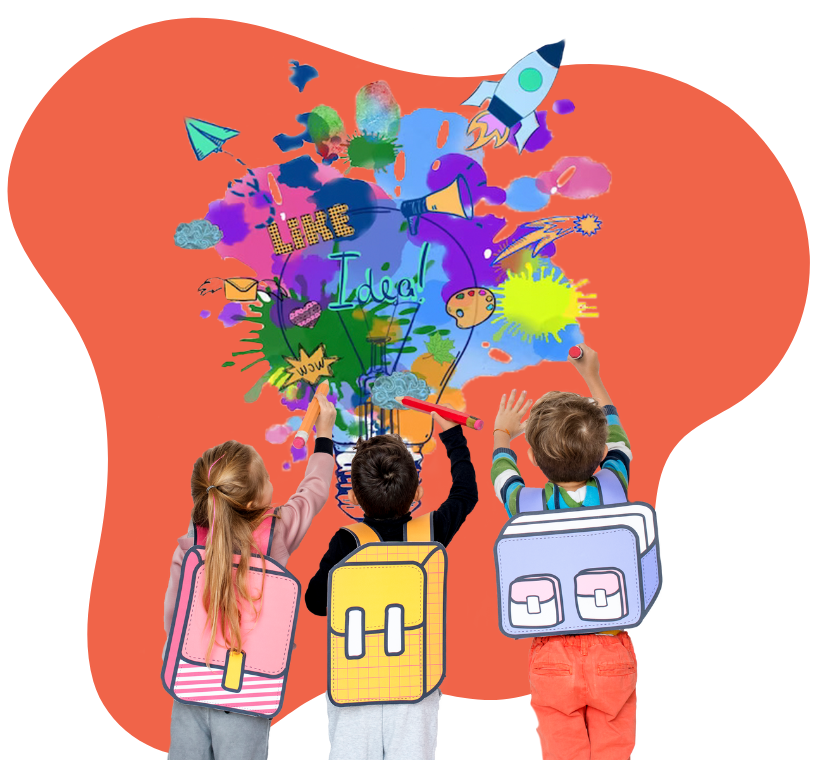
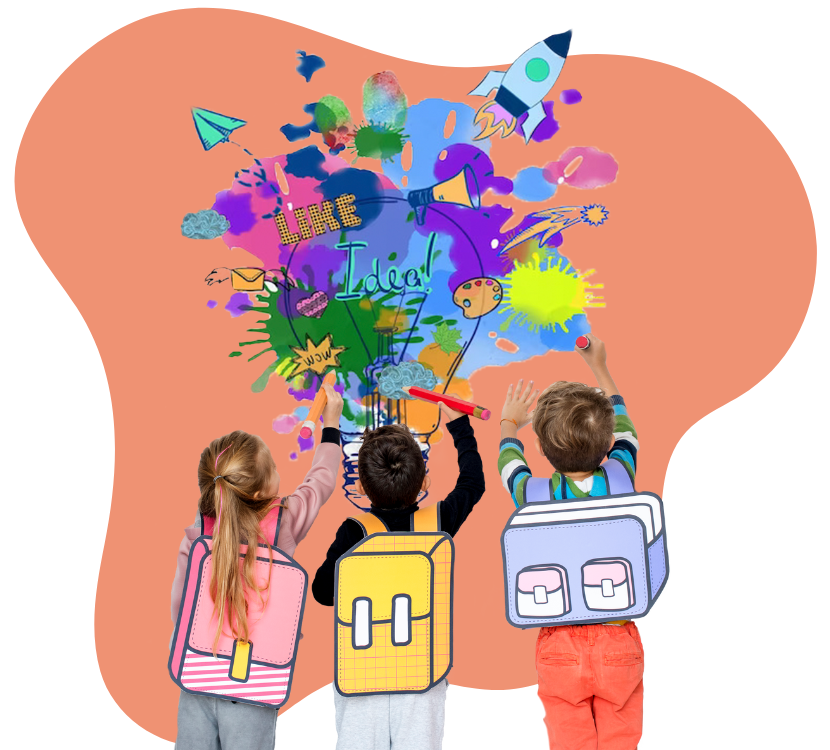
Modified Font and Color Pallette

diff --git a/src/constants/index.js b/src/constants/index.js
@@ -50,22 +50,16 @@ export const members = [
     id: "member-1",
     icon: kalamkaari,
     title: "Divya Sinha",
-    content:
-      "Learn to recognize words and letters by reading and writing it.Get instant feedback on accuracy and speed.",
   },
   {
     id: "member-2",
     icon: Enuncify,
     title: "Muskan Agrawal",
-    content:
-      "Learn to understand the context of the sentences by speaking with correct sentiment and pronunciation.",
   },
   {
     id: "member-3",
     icon: Speakwise,
      title: "Siddhi Jain",
-    content:
-      "Learn public speaking by improving oration skills like fluency, confidence and voice modulation.",
   },
 ];
 
@@ -76,7 +70,6 @@ export const features = [
     title: "Efficient Writing",
     content:
       "The feedback",
-    color: "bg-SeaGreen",
 
   },
   {
@@ -85,7 +78,6 @@ export const features = [
     title: "Ehanced Diction",
     content:
       "Money is only a tool. It will take you wherever you wish, but it will not replace you as the driver.",
-    color: "bg-SeaGreen",
   },
   {
     id: "feature-3",
@@ -93,7 +85,6 @@ export const features = [
     title: "Founder & Leader",
     content:
       "Money is only a tool. It will take you wherever you wish, but it will not replace you as the driver.",
-    color: "bg-SeaGreen",
   },
   {
     id: "feature-4",
@@ -101,7 +92,6 @@ export const features = [
     title: "Founder & Leader",
     content:
       "Money is only a tool. It will take you wherever you wish, but it will not replace you as the driver.",
-    color: "bg-SeaGreen",
   },
 ];
 

diff --git a/src/components/Footer.jsx b/src/components/Footer.jsx
@@ -12,7 +12,7 @@ const Footer = () => (
               <a href="https://github.com/divya-ilona/Ishaan-App">
                 <div class="flex flex-wrap">
                 <img src={github} class="w-[25%] h-[25%] pt-2"></img>
-                  <p class="px-4 text-sm md:text-base"> Find code <br/>{" "} on Github </p>
+                  <p class="px-4 text-sm"> Find code <br/>{" "} on Github </p>
                 </div>
               </a>
             </div>
@@ -20,7 +20,7 @@ const Footer = () => (
               <a href="https://www.canva.com/design/DAFaRCQEeK8/smJLl00CdmTnPXGU6xpJAw/view?utm_content=DAFaRCQEeK8&utm_campaign=designshare&utm_medium=link&utm_source=homepage_design_menu">
               <div class="flex flex-wrap">
                 <img src={slides} class="w-[20%] h-[20%] pt-2"></img>
-                  <p class="px-4 text-sm md:text-base"> Find the <br/>{" "} Pitch Deck </p>
+                  <p class="px-4 text-sm"> Find the <br/>{" "} Pitch Deck </p>
                 </div>
               </a>
             </div>

diff --git a/src/components/Home/About.jsx b/src/components/Home/About.jsx
@@ -10,7 +10,7 @@ const About = () => {
               Brand new
             </p>
           </div>
-          <h2 className="max-w-lg mb-6 font-sans text-3xl font-bold leading-none tracking-tight text-gray-900 sm:text-4xl md:mx-auto">
+          <h2 className="max-w-lg mb-6 text-3xl font-bold leading-none tracking-tight text-gray-900 sm:text-4xl md:mx-auto">
             <span className="relative inline-block">
               <svg
                 viewBox="0 0 52 24"
@@ -34,7 +34,7 @@ const About = () => {
                   height="24"
                 />
               </svg>
-              <span className="relative">The</span>
+              <span className="relative ">The</span>
             </span>{' '}
             quick, brown fox jumps over a lazy dog
           </h2>

diff --git a/src/App.jsx b/src/App.jsx
@@ -9,7 +9,7 @@ function App() {
   return (
     <Router>
   
-      <div className="bg-primary w-full overflow-hidden">
+      <div className="bg-primary w-full overflow-hidden font-poppins">
       <div className={` ${styles.flexCenter}`}>
       <div className={`${styles.boxWidth}`}>
         <Navbar />
@@ -21,7 +21,7 @@ function App() {
         <Route exact path="/Enunsify" element={<Enuncify/>}/>
         <Route exact path="/Speakwise" element={<Speakwise/>}/>
       </Routes>
-      <div className={`bg-primary w-[100%] ${styles.flexCenter}`}>
+      <div className={`bg-Tomato w-[100%] ${styles.flexCenter}`}>
         <div className={`${styles.boxWidth}`}>
           <Footer />
         </div>

diff --git a/src/pages/Home.jsx b/src/pages/Home.jsx
@@ -12,8 +12,8 @@ function Home() {
           <Hero />
         </div>
       </div>
-      <div class="container mx-auto my-20 p-4 bg-AirForceBlue rounded-[50px] ">
-        <h1 className="flex flex-wrap justify-center font-poppins font-semibold xl:text-[72px] ss:text-[52px] text-[32px] text-Isabelline ss:leading-[100.8px] leading-[75px]">
+      <div class="container mx-auto my-20 p-4 bg-Tomato rounded-[50px] ">
+        <h1 className="flex flex-wrap justify-center font-semibold xl:text-[72px] ss:text-[52px] text-[32px] text-primary ss:leading-[100.8px] leading-[75px]">
           Our Products
         </h1>
         <div class="flex flex-wrap  items-stretch -mx-4 justify-center">

diff --git a/src/components/Home/FeatureCard.jsx b/src/components/Home/FeatureCard.jsx
@@ -1,8 +1,8 @@
-const FeatureCard = ({ icon,title,content,color }) => {
+const FeatureCard = ({ icon,title,content}) => {
     return (
 
           <div className={`max-w-md sm:mx-auto sm:text-center`}>
-            <div className={`flex text-center items-center justify-center w-16 h-16 mb-4 z-50 rounded-full ${color} sm:mx-auto sm:w-24 sm:h-24`}>
+            <div className={`flex text-center items-center justify-center w-16 h-16 mb-4 z-50 rounded-full bg-Tomato sm:mx-auto sm:w-24 sm:h-24`}>
             <img className="w-full" src={icon} alt={title} />
             </div>
             <h6 className="mb-3 text-xl font-bold leading-5">{title}</h6>

diff --git a/src/components/Home/Team.jsx b/src/components/Home/Team.jsx
@@ -3,7 +3,7 @@ import React from 'react'
 const TeamCard = ({ icon, title }) => {
   return (
     
-          <div class="text-center text-gray-500 dark:text-gray-400 p-20">
+          <div class="font-poppins text-center text-gray-500 dark:text-gray-400 p-20">
               <img class="mx-auto mb-4 w-36 h-36 rounded-full" src={icon} alt={title}></img>
               <h3 class="mb-1 text-2xl font-bold tracking-tight text-gray-900 ">
                   <a href="#">{title}</a>

diff --git a/src/components/Button.jsx b/src/components/Button.jsx
@@ -1,7 +1,7 @@
 import React from "react";
 
 const Button = ({ styles,text }) => (
-  <button type="button" className={`py-3 px-4 font-poppins font-medium text-[16px] text-primary bg-AirForceBlue rounded-[12px] outline-none ${styles}`}>
+  <button type="button" className={`py-3 px-4 font-medium text-[16px] text-primary bg-Tomato rounded-[12px] outline-none ${styles}`}>
     {text}
   </button>
 );

diff --git a/tailwind.config.js b/tailwind.config.js
@@ -5,9 +5,9 @@ module.exports = {
   theme: {
     extend: {
       colors: {
-        primary: "#EDE6E3",
+        primary: "#fef9f8",
         secondary: "#00f6ff",
-        Tomato: "#F06449",
+        Tomato: "#ef9273",
         Isabelline:"#EDE6E3",
         AirForceBlue:"#508CA4",
         BlackOlive:"#36382E",
